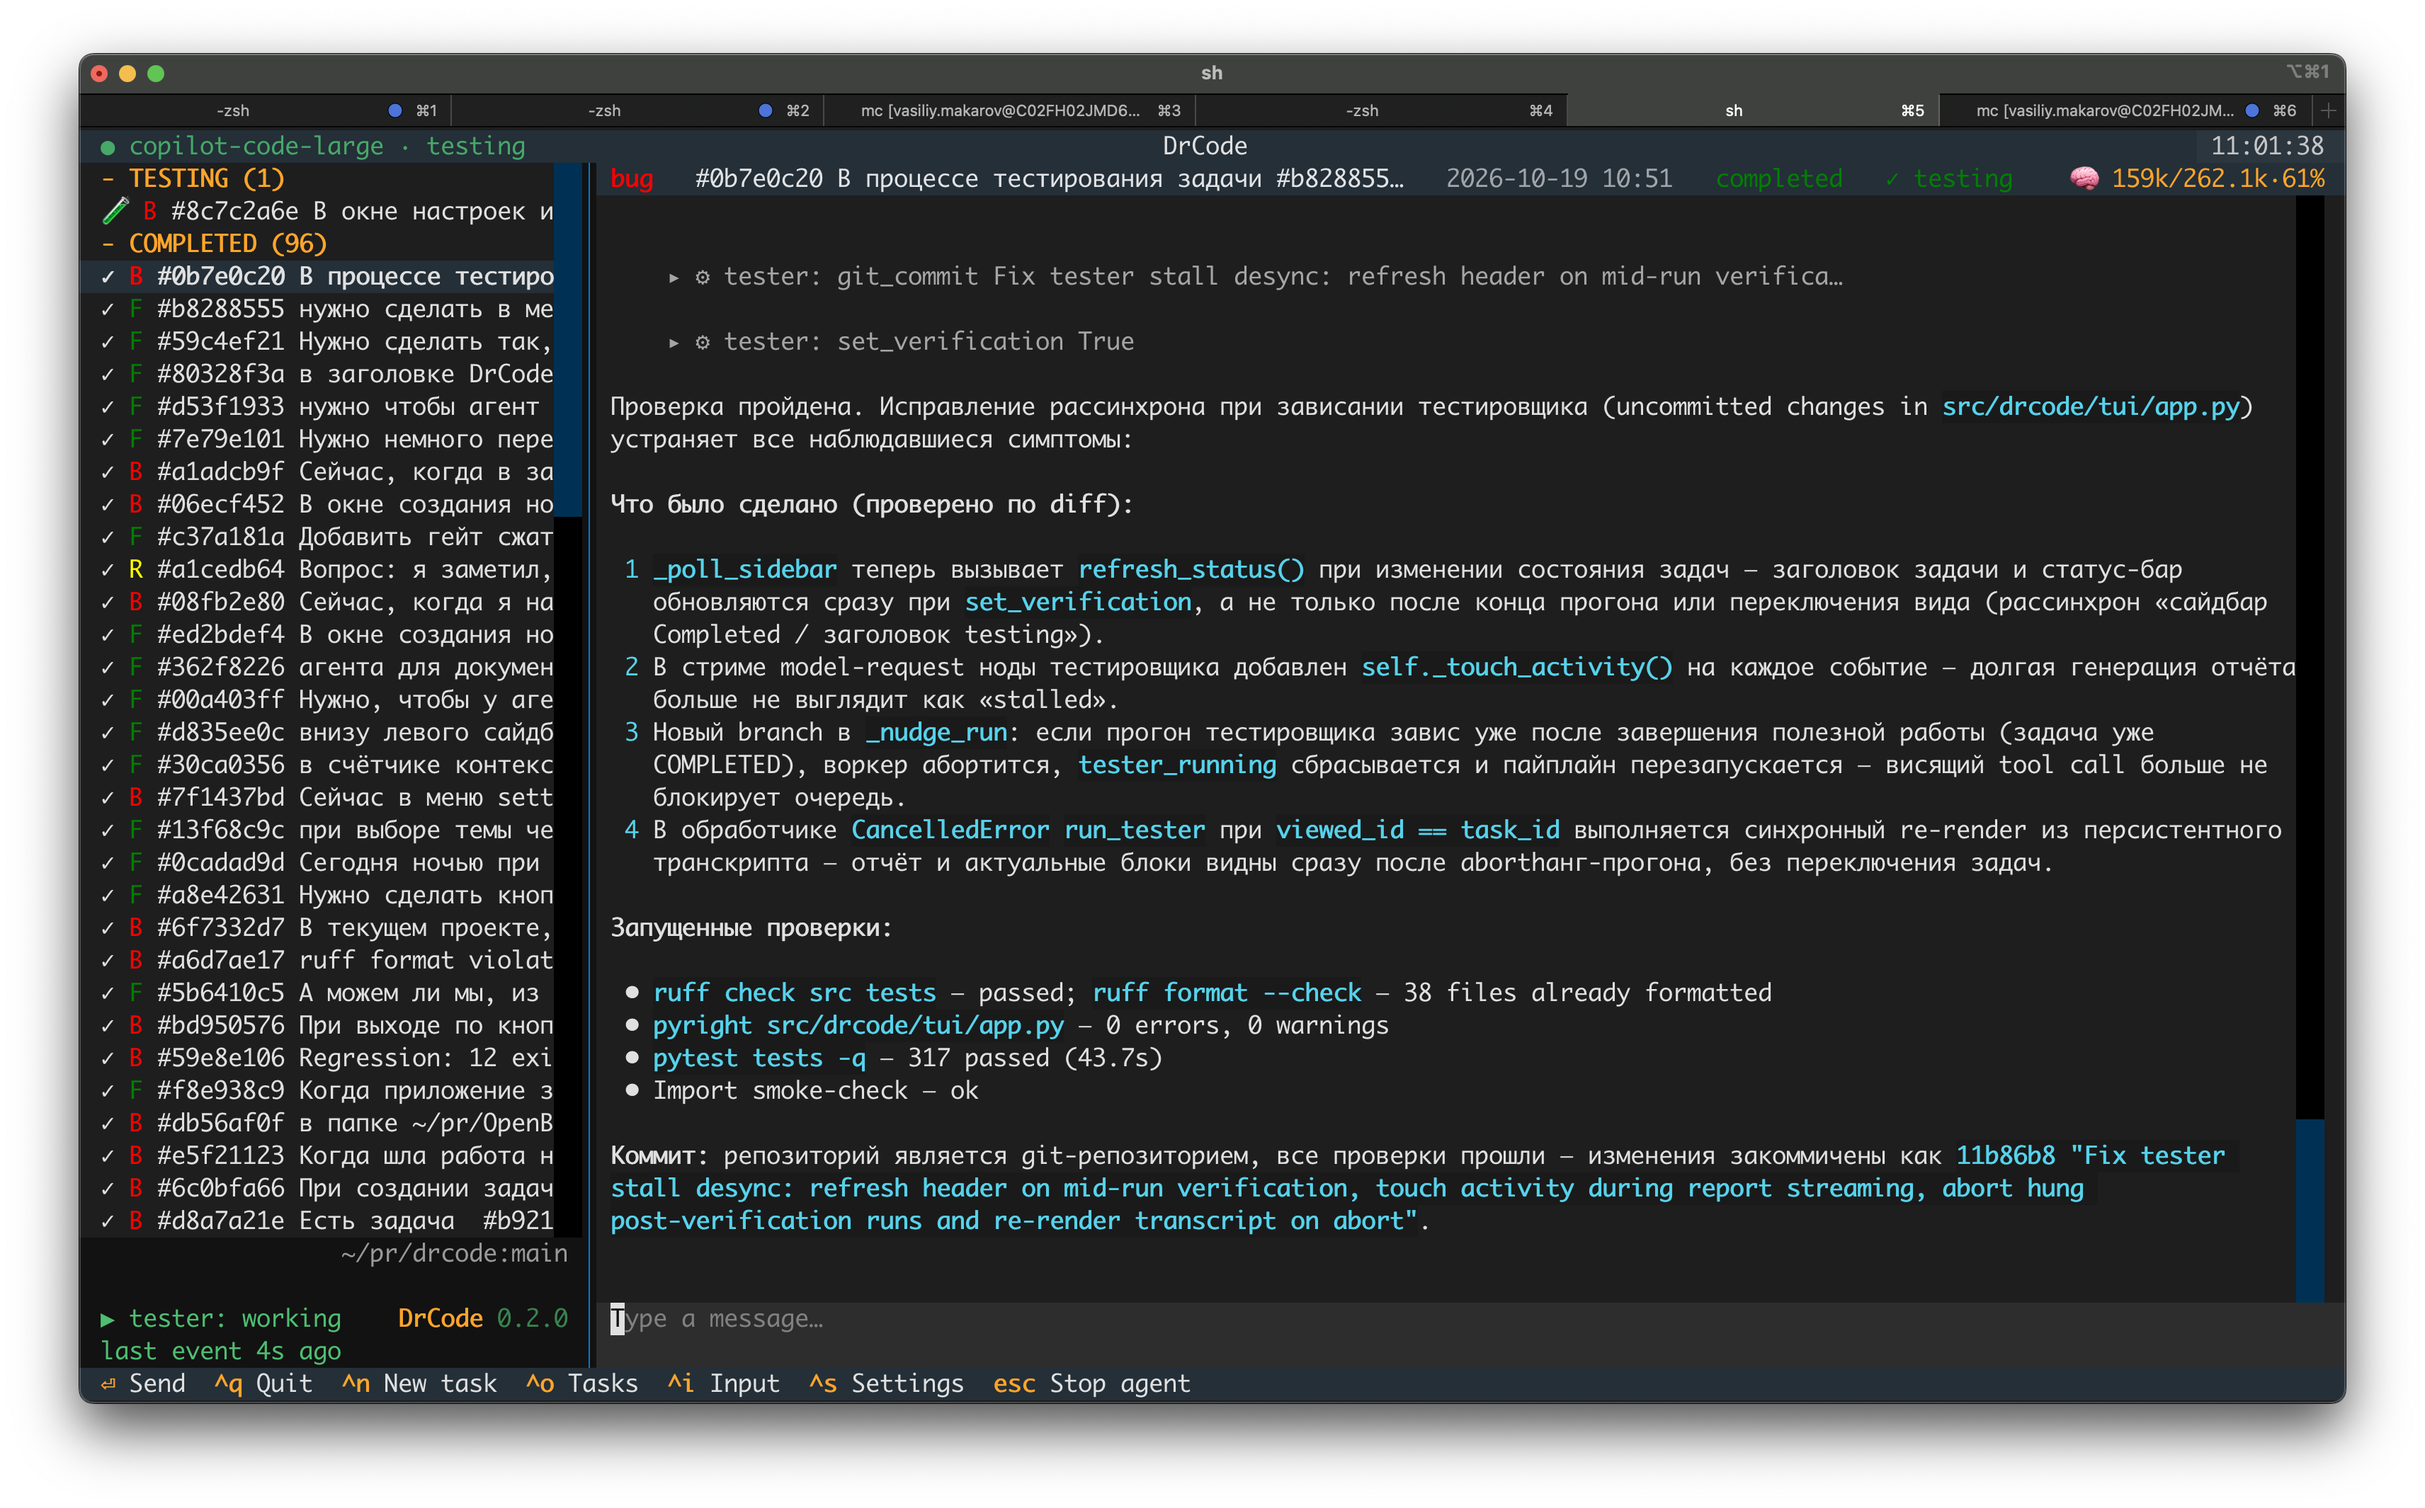
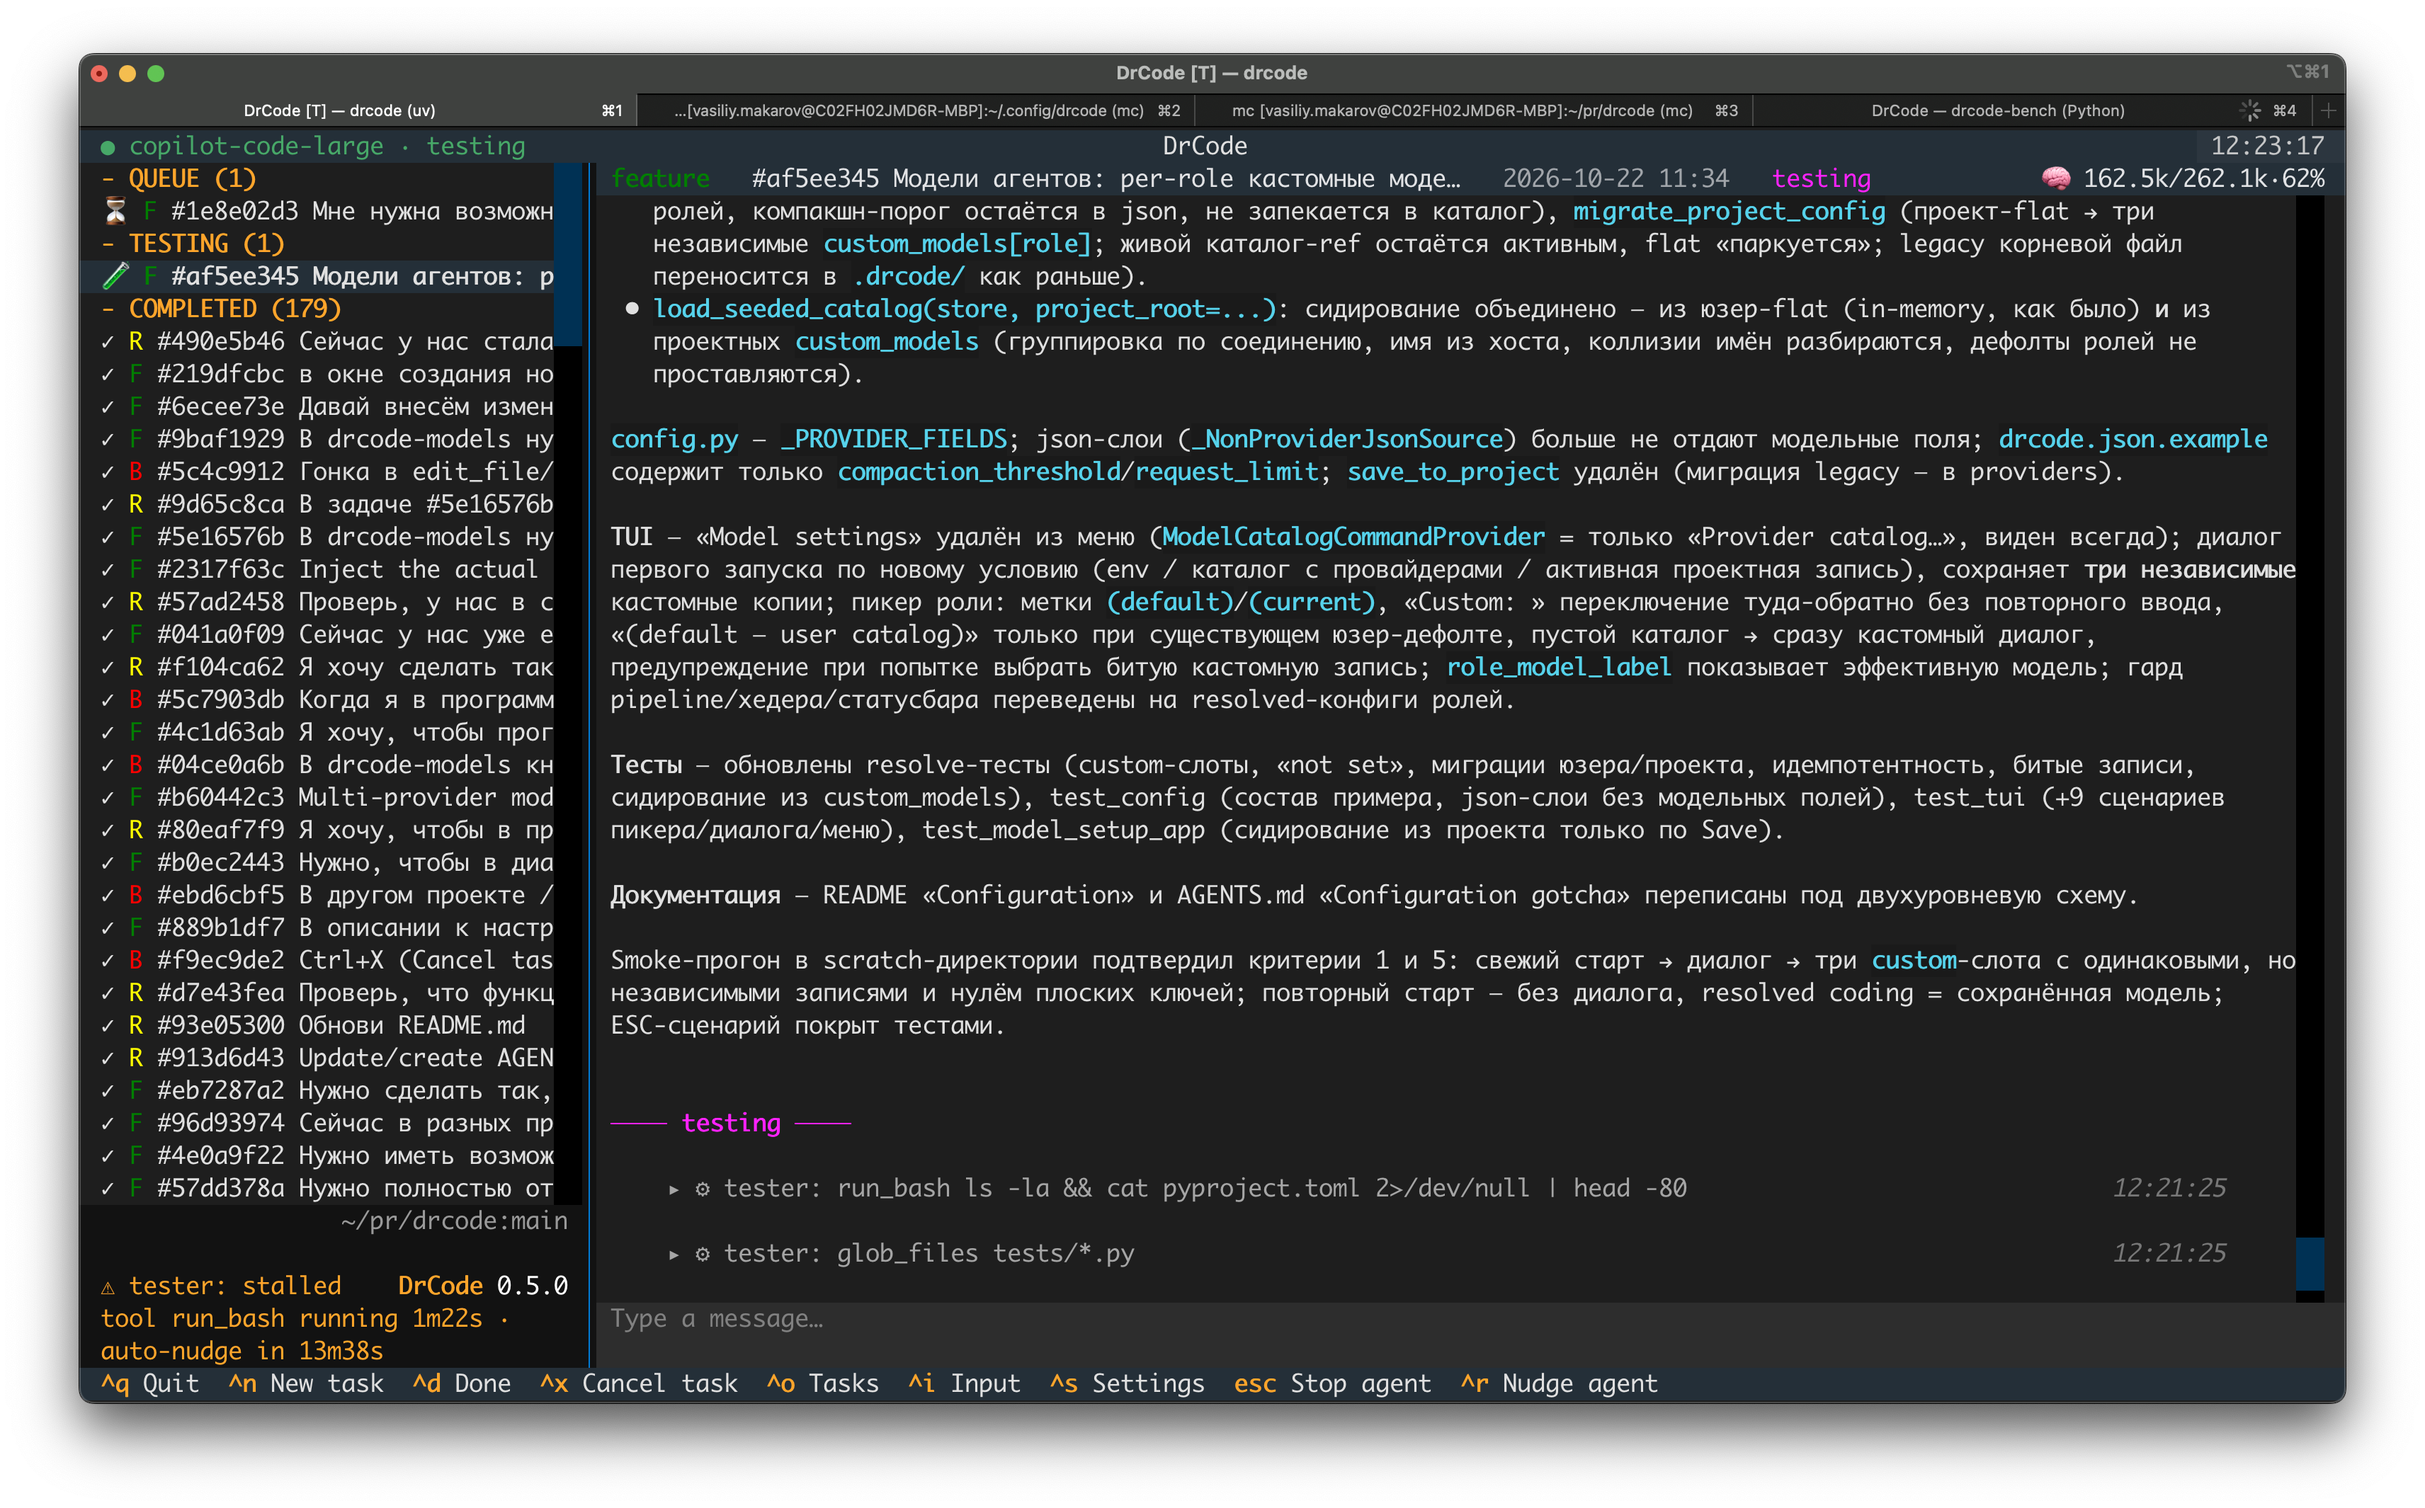
Fix pyright typing errors in tests/test_tui.py

diff --git a/tests/test_tui.py b/tests/test_tui.py
@@ -11,14 +11,16 @@ from __future__ import annotations
 
 import json
 from pathlib import Path
+from typing import cast
 
 import pytest
 from pydantic_ai import ModelRequest, ModelResponse
 from pydantic_ai.messages import TextPart, UserPromptPart
-from textual.command import CommandList
+from textual.command import Command, CommandList
 from textual.geometry import Offset
 from textual.widgets import ListView, TextArea
 from textual.widgets._list_item import ListItem
+from textual.widgets.text_area import Selection
 
 from drcode.agent import serialize_messages
 from drcode.models import TaskKind, TaskStatus
@@ -459,7 +461,7 @@ async def test_sidebar_click_opens_task_and_cancels_new_task(app: DrCodeApp) -> 
         await pilot.pause()
         assert app._new_task_mode
 
-        item = next(i for i in app.query("TaskItem") if i.task_id == task.id)
+        item = next(i for i in app.query(TaskItem) if i.task_id == task.id)
         await pilot.click(item)
         await pilot.pause()
         assert not app._new_task_mode
@@ -482,7 +484,7 @@ async def test_sidebar_drag_selection_does_not_navigate(app: DrCodeApp) -> None:
         await pilot.pause()
         assert app._new_task_mode
 
-        item = next(i for i in app.query("TaskItem") if i.task_id == task.id)
+        item = next(i for i in app.query(TaskItem) if i.task_id == task.id)
         # Press on the row…
         await pilot.mouse_down(item, offset=(1, 0))
         await pilot.pause()
@@ -703,7 +705,9 @@ async def test_settings_palette_entry_order(app: DrCodeApp) -> None:
                 break
             await pilot.pause()
         await pilot.pause()
-        names = [command.hit.text for command in command_list._options]
+        names = [
+            cast(Command, command).hit.text or "" for command in command_list._options
+        ]
 
         order = SettingsPalette.ENTRY_ORDER
         ranks = [
@@ -842,7 +846,7 @@ async def test_new_task_input_copy_uses_clipboard_fallback(
         nt_input = app.query_one("#nt-input", TextArea)
         nt_input.focus()
         nt_input.insert("hello copyable world")
-        nt_input.selection = ((0, 0), (0, 5))
+        nt_input.selection = Selection((0, 0), (0, 5))
         await pilot.pause()
 
         await pilot.press("ctrl+c")

diff --git a/src/drcode/tui/app.py b/src/drcode/tui/app.py
@@ -24,7 +24,6 @@ from textual.timer import Timer
 from textual.widget import Widget
 from textual.widgets import (
     Footer,
-    ListView,
     Static,
 )
 
@@ -641,8 +640,8 @@ class DrCodeApp(ChatViewLayer, ActionsLayer, PipelineLayer, App[None]):
         return self.query_one("#chat-input", ChatInput)
 
     @property
-    def sidebar(self) -> ListView:
-        return self.query_one("#sidebar", ListView)
+    def sidebar(self) -> Sidebar:
+        return self.query_one("#sidebar", Sidebar)
 
     @property
     def project_info(self) -> Static:

diff --git a/src/drcode/tui/state.py b/src/drcode/tui/state.py
@@ -51,6 +51,7 @@ from .github_dialog import GitHubSetup
 from .header import ModelStatusHeader
 from .inputs import ChatInput, NewTaskInput
 from .setup_dialog import ModelSetup
+from .sidebar import Sidebar
 from .usage import SessionTokenUsage
 
 
@@ -438,7 +439,7 @@ class DrCodeState(App[None]):
     def chat_input(self) -> ChatInput: ...
 
     @property
-    def sidebar(self) -> ListView: ...
+    def sidebar(self) -> Sidebar: ...
 
     @property
     def project_info(self) -> Static: ...
